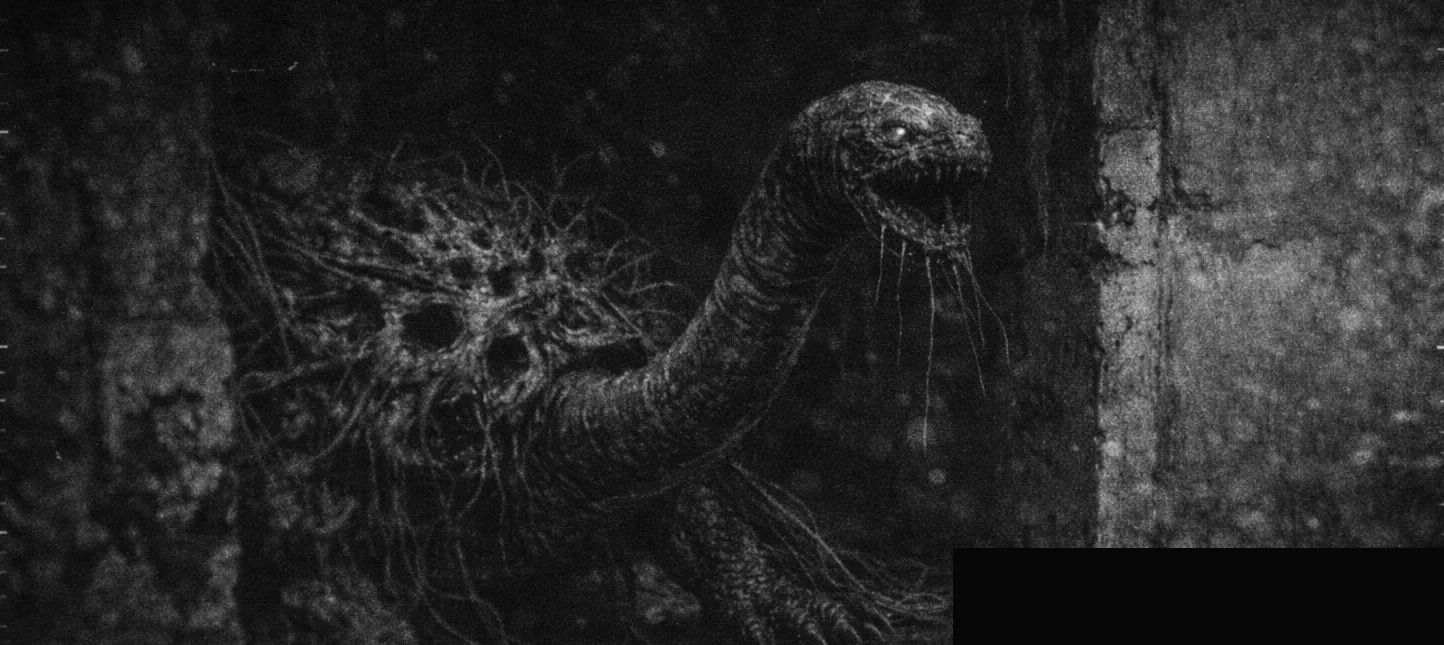
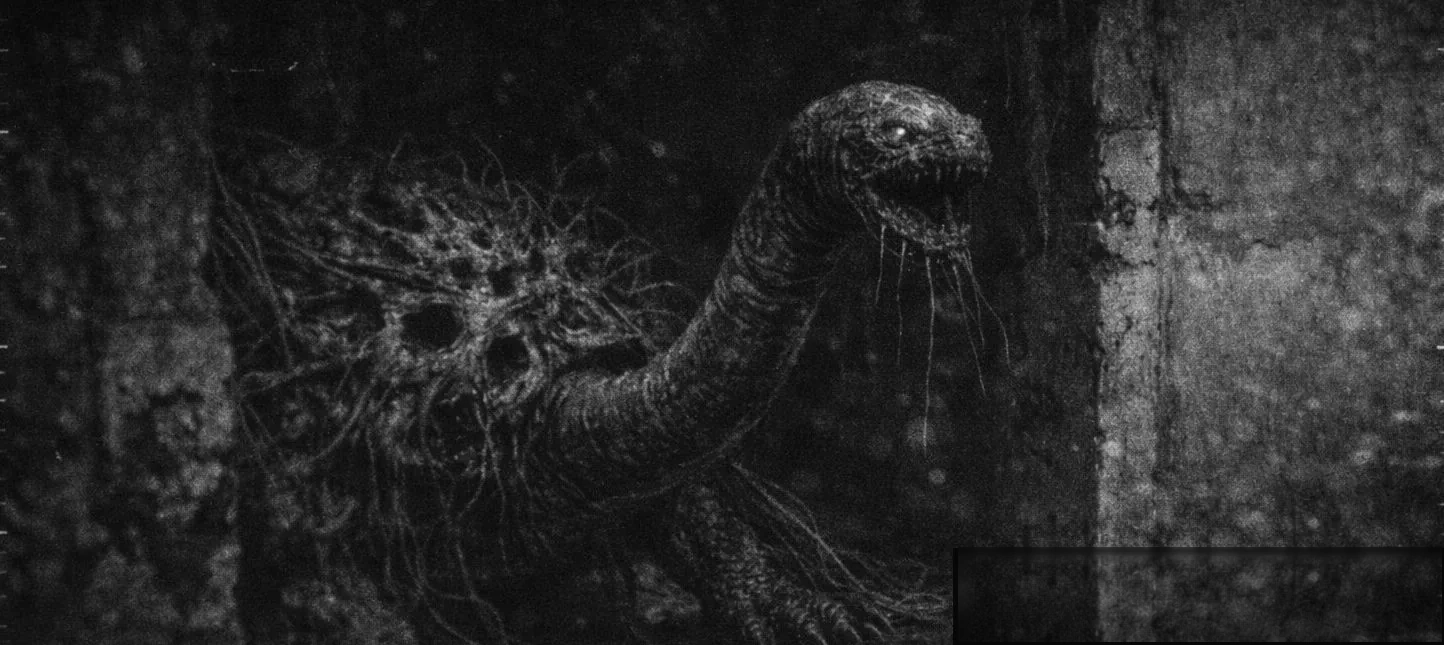
fix(art): SHELL TALKER 현장임무 히어로 우측 하단 검정 사각형 제거
mission_m002_shell_talker_clean.webp(현장임무 hero, shell_talker·shell_gate 공용)의
우측 하단(958,550~1442,642)에 clean 버전 제작 시 텍스트 박스를 검정으로 덮은 흔적이
남아 있었음. 해당 영역을 주변 벽 텍스처(상단 반사)+코너 비네팅+테두리 페더로 채워
자연스러운 벽으로 복원. 생물 형상은 불변.

- mission_m002_shell_talker_clean.webp 재가공 (root+demo)
- components-game.js: 해당 webp 참조에 ?v=2 캐시버스트 (root+demo), v115→v116

실제 fm-hero 렌더 확인(M-002): 우측 하단 검정 박스 제거, 벽 텍스처 연속.

Changed region(s): [[0.6856, 0.8372, 0.9972, 1.0]]

diff --git a/components-game.js b/components-game.js
@@ -302,8 +302,8 @@ function MainMenu(p){
 var CCTV_CLIPS={
   brainseeker:   {src:'assets/video/brainseeker-cctv.mp4?v=2',start:6.5,end:9.0,cam:'CCTV // SEWER LINE 3',   warn:{ko:'하수도 침입 감지',      en:'SEWER BREACH DETECTED'}},
   blood_pit:     {img:'assets/images/missions/mission_m001_blood_pit_clean.webp',            cam:'CCTV // ORGANIC TRAP B2', warn:{ko:'다량 혈흔 반응 감지',    en:'MASS BLOOD TRACE DETECTED'}},
-  shell_talker:  {img:'assets/images/missions/mission_m002_shell_talker_clean.webp',         cam:'CCTV // FOREST LINE 7',   warn:{ko:'음성 모방 개체 감지',    en:'VOICE-MIMIC ENTITY DETECTED'}},
-  shell_gate:    {img:'assets/images/missions/mission_m002_shell_talker_clean.webp',         cam:'CCTV // PERIMETER GATE B',warn:{ko:'봉쇄선 침입 감지',      en:'PERIMETER BREACH DETECTED'}},
+  shell_talker:  {img:'assets/images/missions/mission_m002_shell_talker_clean.webp?v=2',         cam:'CCTV // FOREST LINE 7',   warn:{ko:'음성 모방 개체 감지',    en:'VOICE-MIMIC ENTITY DETECTED'}},
+  shell_gate:    {img:'assets/images/missions/mission_m002_shell_talker_clean.webp?v=2',         cam:'CCTV // PERIMETER GATE B',warn:{ko:'봉쇄선 침입 감지',      en:'PERIMETER BREACH DETECTED'}},
   mannequin:     {img:'assets/images/missions/mission_m004_mannequin_encounter_hero_v2.jpg', cam:'CCTV // NEST DORMANT 4',  warn:{ko:'정지 위장 개체 감지',    en:'STILL-CAMOUFLAGE ENTITY'}},
   brood_drone:   {img:'assets/images/missions/mission_m005_brood_drone_corridor_hero_v2.jpg',cam:'CCTV // SWARM ZONE C',    warn:{ko:'군체 드론 활동 감지',    en:'SWARM DRONE ACTIVITY'}},
   spore_phantom: {img:'assets/images/missions/mission_m006_spore_phantom_clean.webp',        cam:'CCTV // SPORE FOG 2',     warn:{ko:'포자 농도 급상승',      en:'SPORE DENSITY SPIKING'}},

diff --git a/demo/components-game.js b/demo/components-game.js
@@ -302,8 +302,8 @@ function MainMenu(p){
 var CCTV_CLIPS={
   brainseeker:   {src:'assets/video/brainseeker-cctv.mp4?v=2',start:6.5,end:9.0,cam:'CCTV // SEWER LINE 3',   warn:{ko:'하수도 침입 감지',      en:'SEWER BREACH DETECTED'}},
   blood_pit:     {img:'assets/images/missions/mission_m001_blood_pit_clean.webp',            cam:'CCTV // ORGANIC TRAP B2', warn:{ko:'다량 혈흔 반응 감지',    en:'MASS BLOOD TRACE DETECTED'}},
-  shell_talker:  {img:'assets/images/missions/mission_m002_shell_talker_clean.webp',         cam:'CCTV // FOREST LINE 7',   warn:{ko:'음성 모방 개체 감지',    en:'VOICE-MIMIC ENTITY DETECTED'}},
-  shell_gate:    {img:'assets/images/missions/mission_m002_shell_talker_clean.webp',         cam:'CCTV // PERIMETER GATE B',warn:{ko:'봉쇄선 침입 감지',      en:'PERIMETER BREACH DETECTED'}},
+  shell_talker:  {img:'assets/images/missions/mission_m002_shell_talker_clean.webp?v=2',         cam:'CCTV // FOREST LINE 7',   warn:{ko:'음성 모방 개체 감지',    en:'VOICE-MIMIC ENTITY DETECTED'}},
+  shell_gate:    {img:'assets/images/missions/mission_m002_shell_talker_clean.webp?v=2',         cam:'CCTV // PERIMETER GATE B',warn:{ko:'봉쇄선 침입 감지',      en:'PERIMETER BREACH DETECTED'}},
   mannequin:     {img:'assets/images/missions/mission_m004_mannequin_encounter_hero_v2.jpg', cam:'CCTV // NEST DORMANT 4',  warn:{ko:'정지 위장 개체 감지',    en:'STILL-CAMOUFLAGE ENTITY'}},
   brood_drone:   {img:'assets/images/missions/mission_m005_brood_drone_corridor_hero_v2.jpg',cam:'CCTV // SWARM ZONE C',    warn:{ko:'군체 드론 활동 감지',    en:'SWARM DRONE ACTIVITY'}},
   spore_phantom: {img:'assets/images/missions/mission_m006_spore_phantom_clean.webp',        cam:'CCTV // SPORE FOG 2',     warn:{ko:'포자 농도 급상승',      en:'SPORE DENSITY SPIKING'}},

diff --git a/demo/index.html b/demo/index.html
@@ -187,7 +187,7 @@
   <script src="components-briefing.js?v=20"></script>
   <script src="components-evidence.js?v=19"></script>
   <script src="components-facility.js?v=14"></script>
-  <script src="components-game.js?v=115"></script>
+  <script src="components-game.js?v=116"></script>
   <script src="components-oracle-link.js?v=1"></script>
   <script src="components-minigames.js?v=14"></script>
   <script src="components-settings.js?v=13"></script>

diff --git a/index.html b/index.html
@@ -186,7 +186,7 @@
   <script src="components-briefing.js?v=20"></script>
   <script src="components-evidence.js?v=19"></script>
   <script src="components-facility.js?v=14"></script>
-  <script src="components-game.js?v=115"></script>
+  <script src="components-game.js?v=116"></script>
   <script src="components-oracle-link.js?v=1"></script>
   <script src="components-minigames.js?v=14"></script>
   <script src="components-settings.js?v=13"></script>
